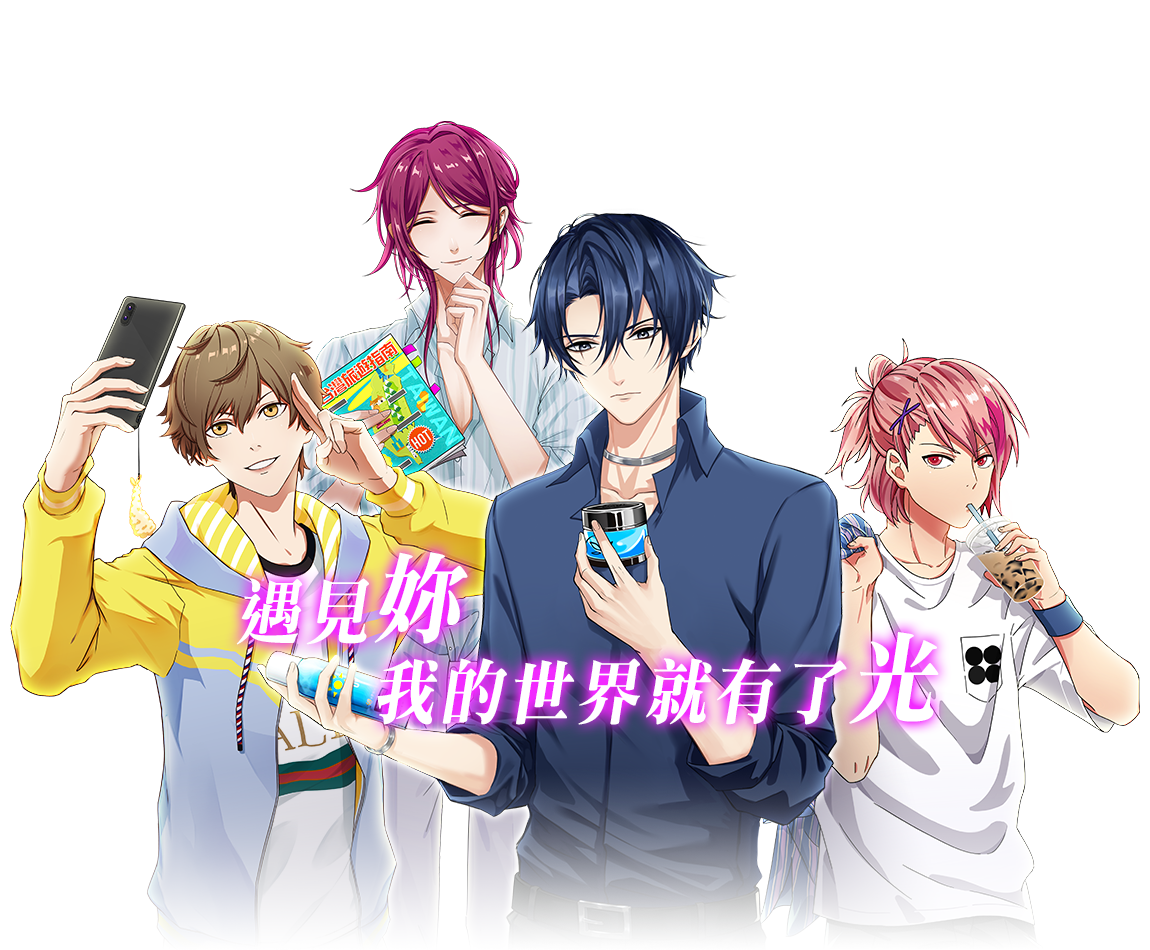
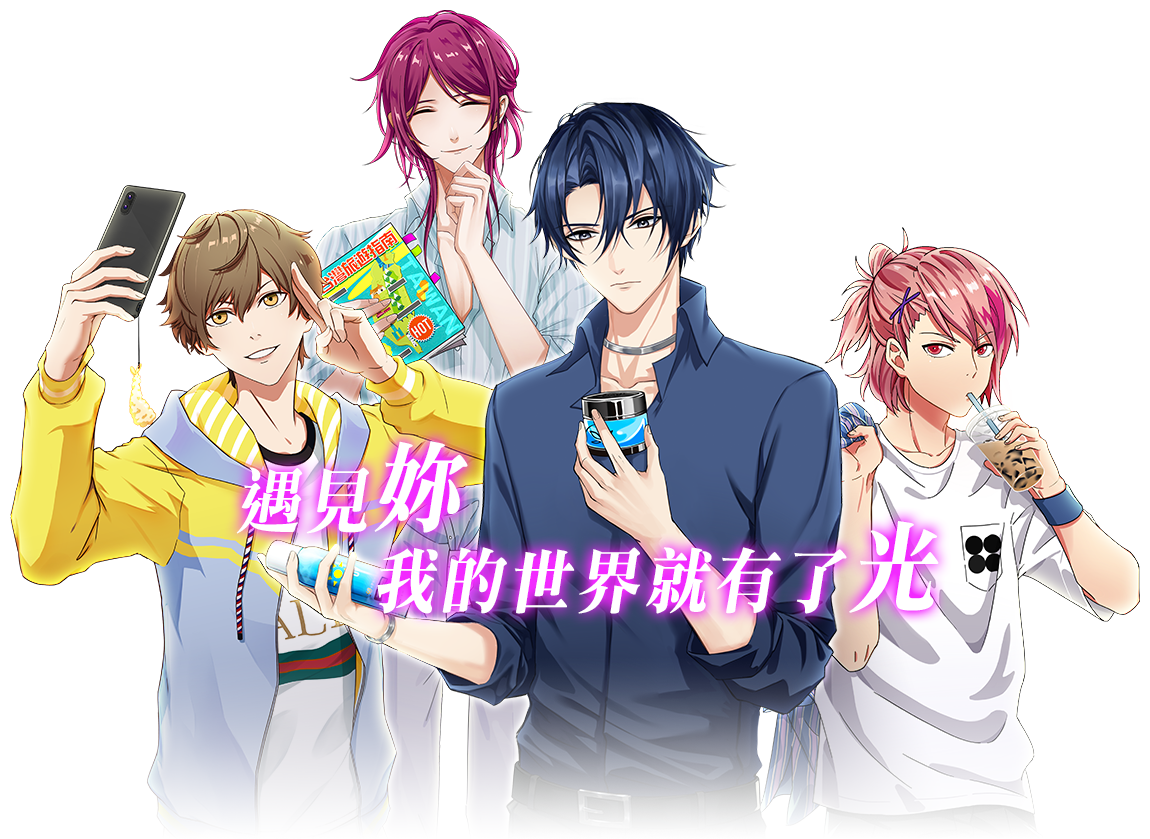
up

diff --git a/fun/css/grid_teststyle.css b/fun/css/grid_teststyle.css
@@ -37,7 +37,7 @@ a {
   max-width: 1366px;
   width: 100%;
   margin: 0 auto -50% auto;
-	z-index: 99;
+  z-index: 99;
 }
 .logo img {
   max-width: 406px;
@@ -100,7 +100,7 @@ a {
   width: 100%;
   margin: 0 auto;
   background: url("../images/kv_p01.png") no-repeat center center;
-  background-size: auto 100%;
+  background-size: revert;
   display: grid;
   grid-template-rows: 12fr 1fr;
 }
@@ -116,7 +116,7 @@ a {
   z-index: 99;
   cursor: pointer;
   text-align: center;
-  top: -100%;
+  top: -9vw;
 }
 .btn_b a {
   color: #FFFFFF;
@@ -160,12 +160,12 @@ a {
   background: linear-gradient(to bottom, rgba(76, 240, 255, 1) 10%, rgba(58, 196, 255, 1) 83%, rgba(63, 210, 255, 1) 100%); /* W3C, IE10+, FF16+, Chrome26+, Opera12+, Safari7+ */
   filter: progid:DXImageTransform.Microsoft.gradient(startColorstr='#4cf0ff', endColorstr='#3fd2ff', GradientType=0); /* IE6-9 */
 }
-.main_01{
-	max-width: 1366px;
-	background: url("../images/kv_p02.jpg") no-repeat center left;
-	background-size: 100% auto;
-	margin: 0 auto;
-	height: 100%;
+.main_01 {
+  max-width: 1366px;
+  background: url("../images/kv_p02.jpg") no-repeat center left;
+  background-size: 100% auto;
+  margin: 0 auto;
+  height: 100%;
 }
 .m_title {
   background-repeat: no-repeat;
@@ -191,13 +191,13 @@ a {
   width: 90%
 }
 .main_content {
-    background-color: rgba(255, 255, 255, 0.60);
-    border: 3px solid rgba(255, 255, 255, 1.00);
-    border-radius: 10px;
-    -webkit-box-shadow: 2px 2px 5px rgba(152, 140, 240, 0.60);
-    box-shadow: 2px 2px 5px rgba(152, 140, 240, 0.60);
-    padding: 2vw 3vw;
-    margin: 4vh 2vw 10vh 2vw;
+  background-color: rgba(255, 255, 255, 0.60);
+  border: 3px solid rgba(255, 255, 255, 1.00);
+  border-radius: 10px;
+  -webkit-box-shadow: 2px 2px 5px rgba(152, 140, 240, 0.60);
+  box-shadow: 2px 2px 5px rgba(152, 140, 240, 0.60);
+  padding: 2vw 3vw;
+  margin: 4vh 2vw 10vh 2vw;
 }
 .btn_b_s {
   display: inline-block;
@@ -391,11 +391,15 @@ a {
     padding: 15px;
   }
   .main {
-    grid-template-rows: 9fr 1fr;
-    background-size: auto 64%;
+    grid-template-rows: 7fr 1fr;
+    background-size: auto 100vw;
   }
-	.main_01{
-		background-size: auto 90%;
-		background-position-x: 13%;
+  .main_01 {
+    background-size: auto 90%;
+    background-position-x: 13%;
+  }
+	.btn_b{
+		top: -20vh;
+		max-height: 20vw;
 	}
 }
